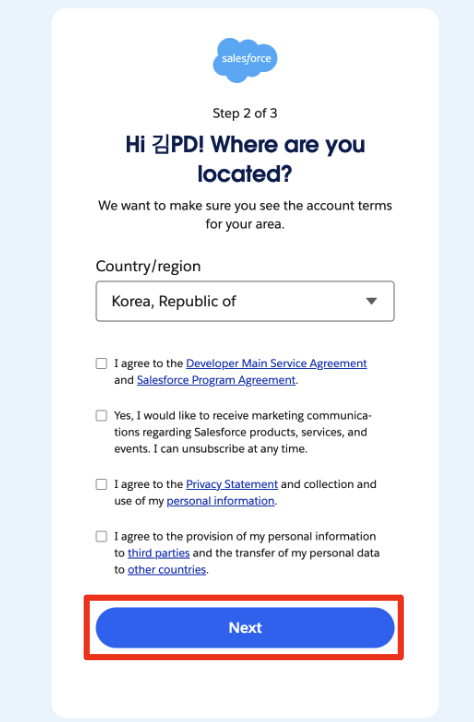
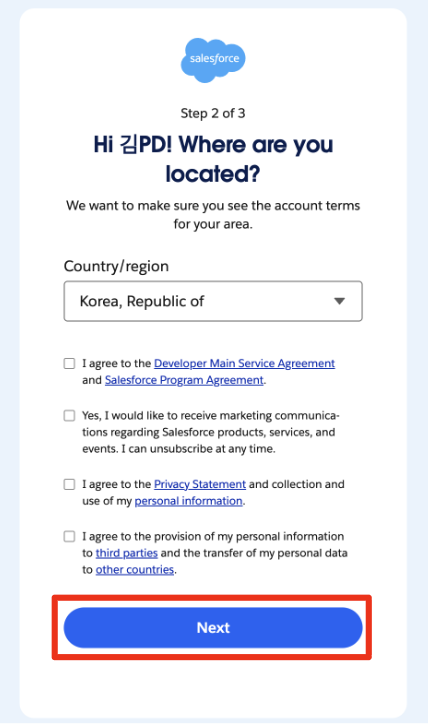
support-case Portal 로그인·계정 생성 A/B/C 이미지 교체
- step3a/b/c 스크린샷을 새 이미지로 교체하고 width/height 업데이트

diff --git a/app/reference/support-case/page.tsx b/app/reference/support-case/page.tsx
@@ -92,9 +92,9 @@ export default function SupportCaseReferencePage() {
             최초 1회만 계정을 생성하면 이후 재사용합니다. 아래 <strong className="text-gray-900">A → B → C</strong> 순서로 진행하세요.
           </p>
           <div className="ml-10 grid sm:grid-cols-3 gap-4">
-            <CaptionedShot step="A" caption={<>로그인 승인 → <Chip>승인하고 계속</Chip></>} img={{ src: '/support-case/step3a-approve.png', alt: 'Salesforce 로그인 승인 화면', width: 504, height: 444 }} />
-            <CaptionedShot step="B" caption={<>지역 선택·약관 동의 → <Chip>Next</Chip></>} img={{ src: '/support-case/step3b-region.png', alt: '지역 선택 및 약관 동의 (Step 2 of 3)', width: 474, height: 722 }} />
-            <CaptionedShot step="C" caption={<>이름·회사·역할 입력 → <Chip>Next</Chip></>} img={{ src: '/support-case/step3c-info.png', alt: '이름·회사·역할 입력 (Step 3 of 3)', width: 440, height: 720 }} />
+            <CaptionedShot step="A" caption={<>로그인 승인 → <Chip>승인하고 계속</Chip></>} img={{ src: '/support-case/step3a-approve.png', alt: 'Salesforce 로그인 승인 화면', width: 584, height: 646 }} />
+            <CaptionedShot step="B" caption={<>지역 선택·약관 동의 → <Chip>Next</Chip></>} img={{ src: '/support-case/step3b-region.png', alt: '지역 선택 및 약관 동의 (Step 2 of 3)', width: 428, height: 726 }} />
+            <CaptionedShot step="C" caption={<>이름·회사·역할 입력 → <Chip>Next</Chip></>} img={{ src: '/support-case/step3c-info.png', alt: '이름·회사·역할 입력 (Step 3 of 3)', width: 424, height: 730 }} />
           </div>
         </div>
 
